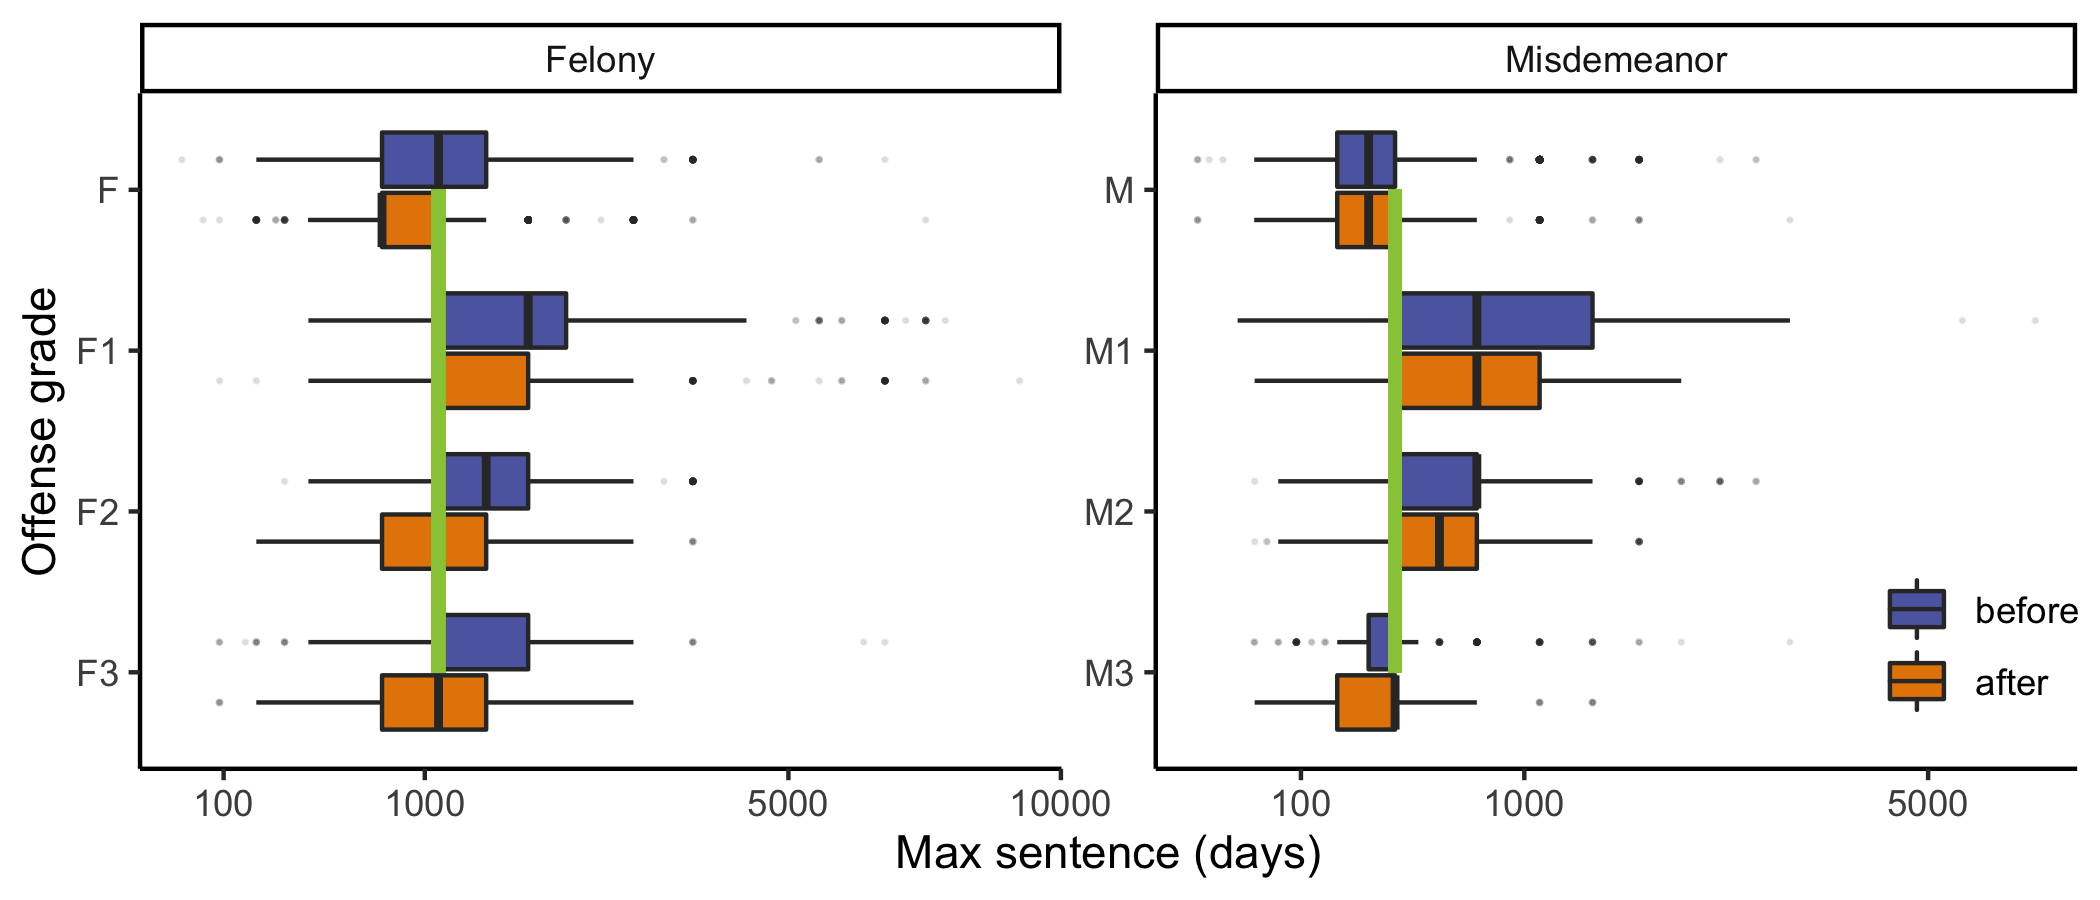
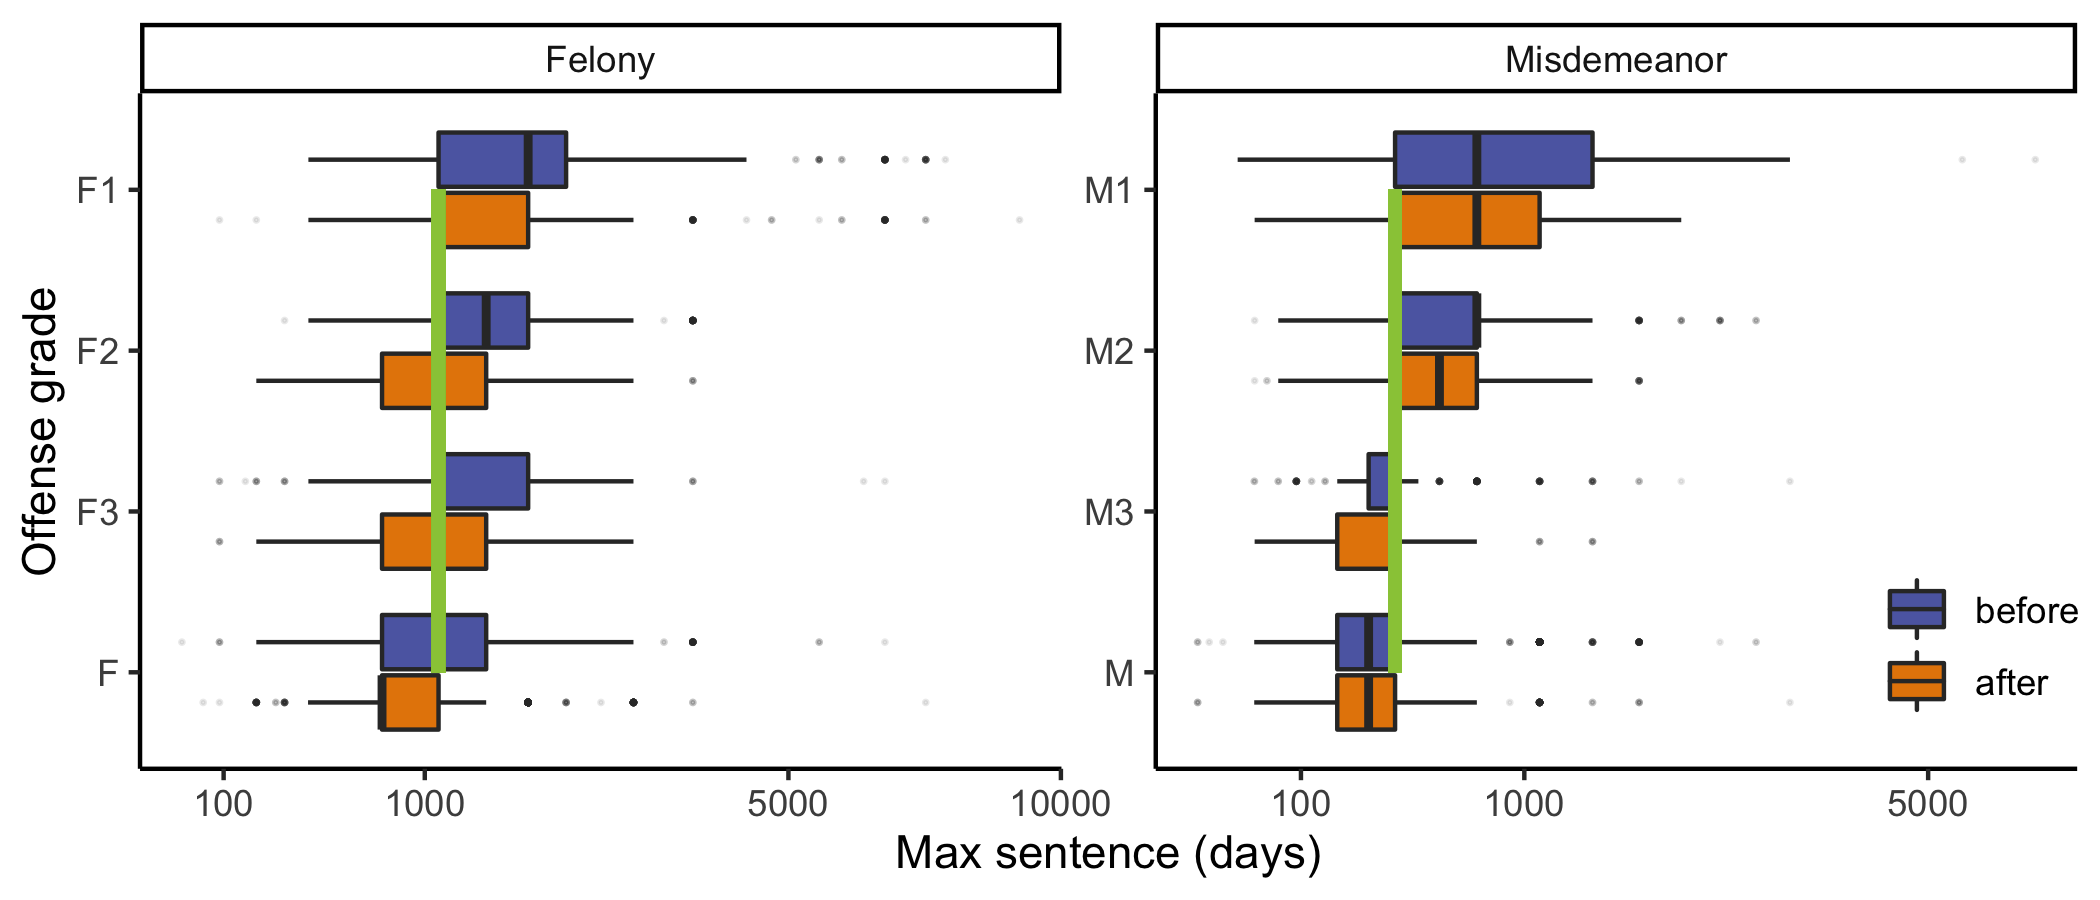
reorder F and M

diff --git a/analyses/team3/reports/max-sentencing.md b/analyses/team3/reports/max-sentencing.md
@@ -154,6 +154,8 @@ def_disp <- def_raw %>%
 p <- def_disp %>%
   drop_na(period_bef_aft) %>%
   mutate(
+    grade = grade %>% 
+      fct_relevel("F", "M", after = 0),
     offense_type = substr(grade, 1, 1),
     x_bar = case_when(
       offense_type == "M" ~ 365,
